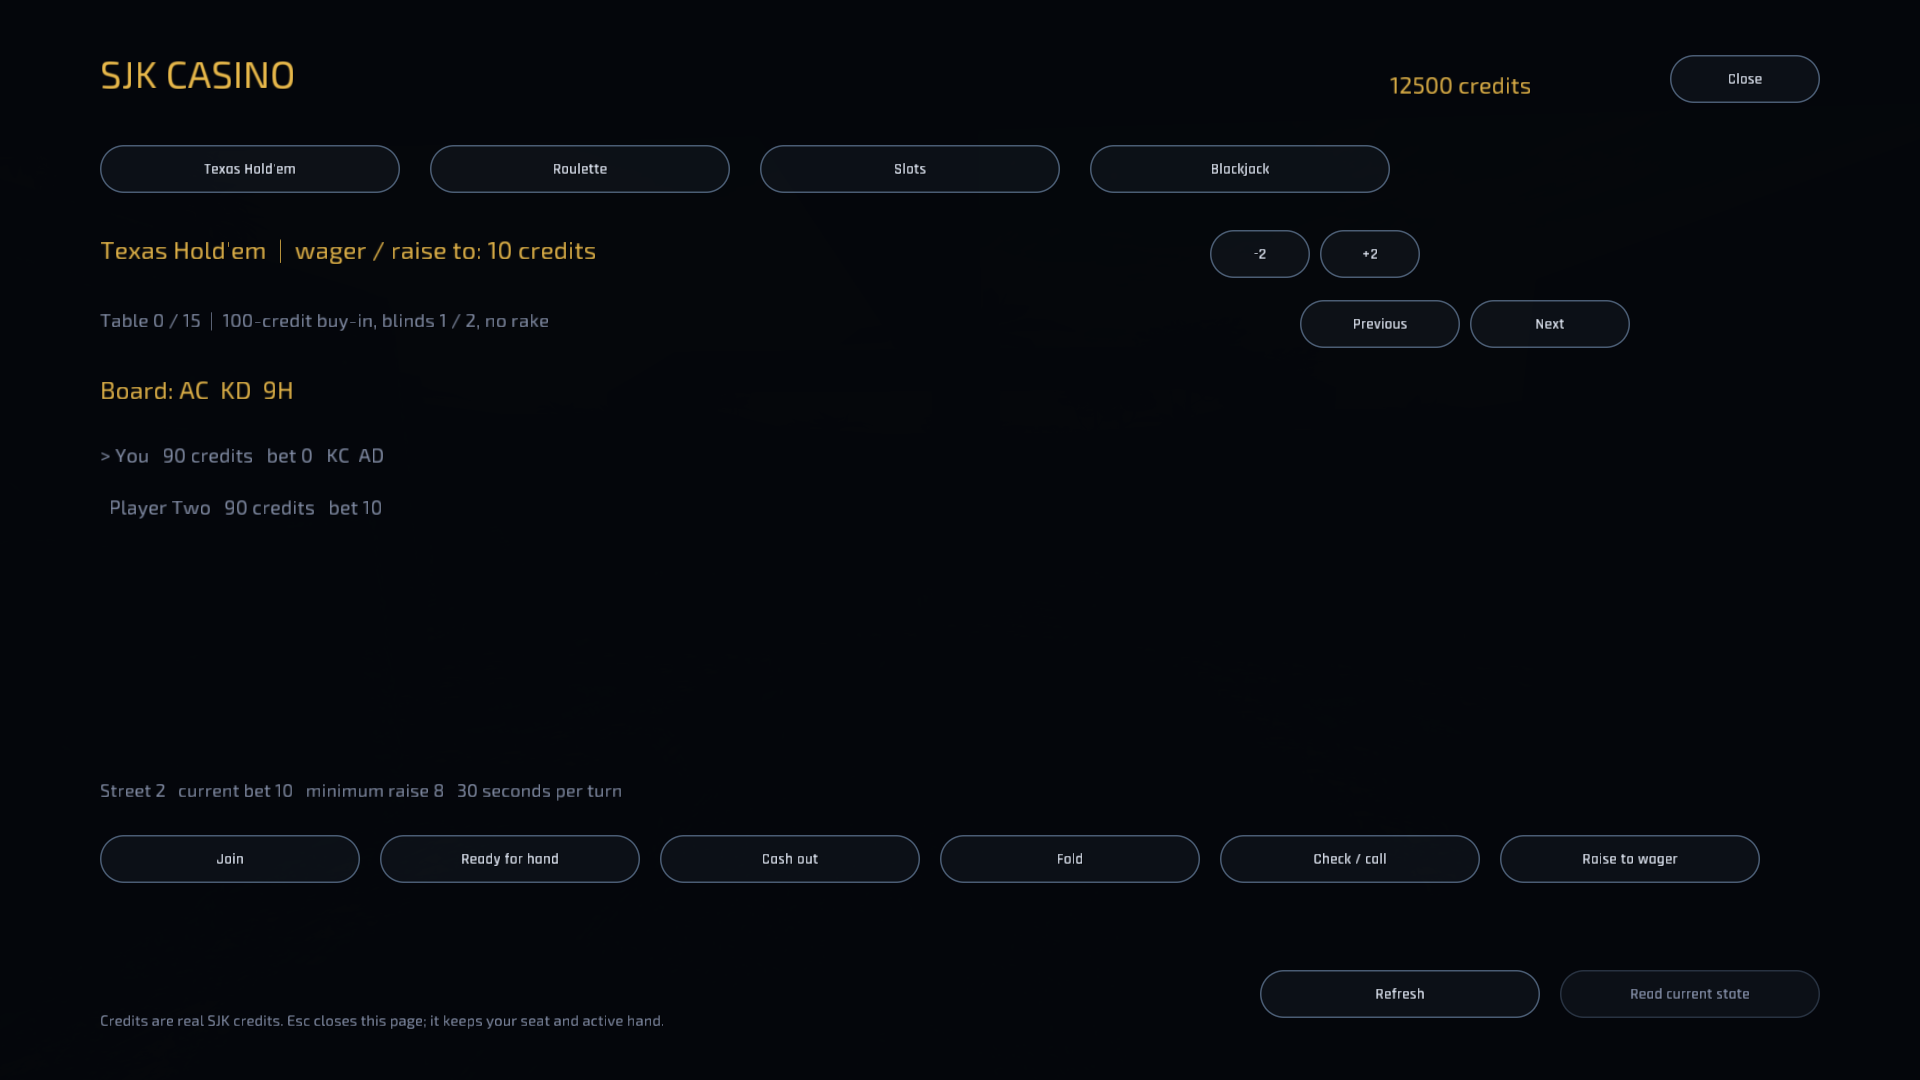
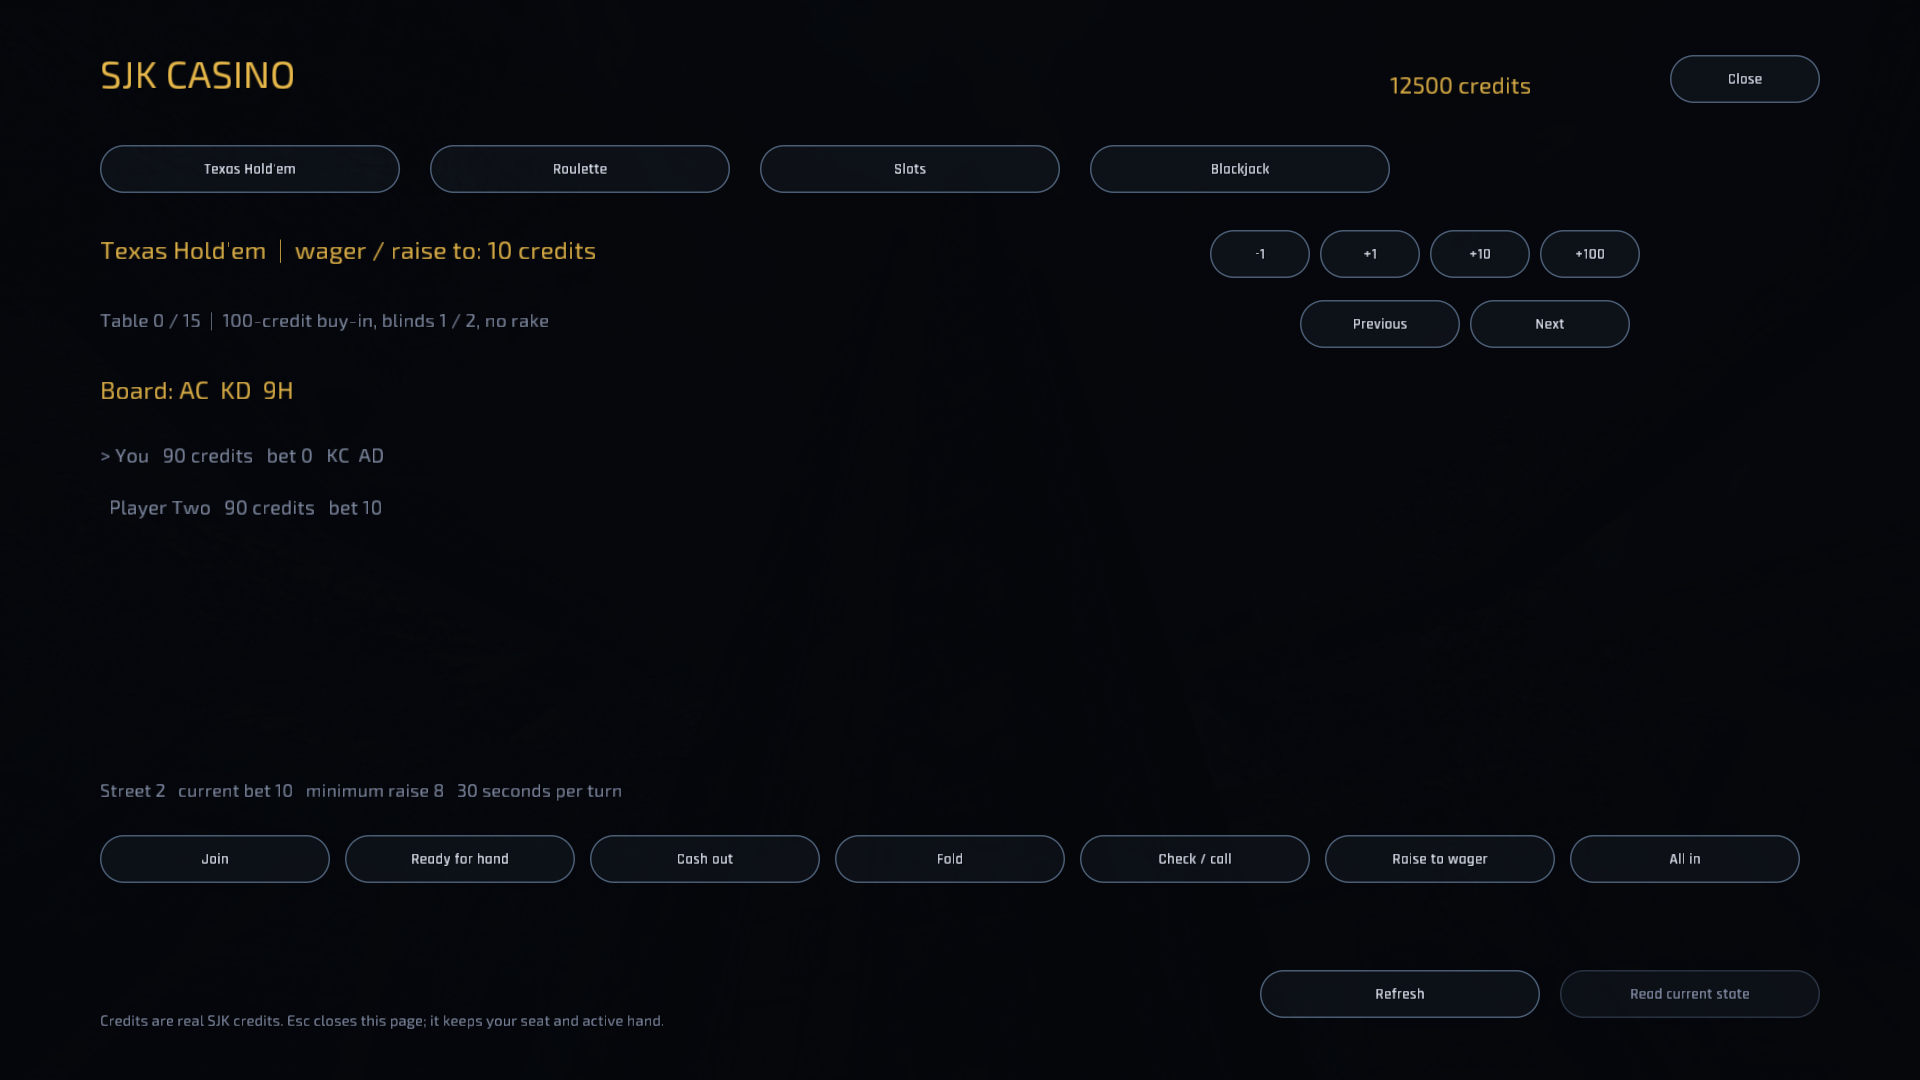
Allow whole-credit wagers and poker all-ins

diff --git a/crates/sjk-viewer/src/console_casino.rs b/crates/sjk-viewer/src/console_casino.rs
@@ -123,8 +123,29 @@ impl Casino {
         match token {
             0 => self.open = false,
             1..=4 => self.game = usize::from(token - 1),
-            5 => self.bet = (self.bet - 2).max(2),
-            6 => self.bet = (self.bet + 2).min(if self.game == 0 { 100_000 } else { 500 }),
+            5 => {
+                self.bet = (self.bet - if self.game == 3 { 2 } else { 1 }).max(if self.game == 3 {
+                    2
+                } else {
+                    1
+                })
+            }
+            6 | 22 | 23 => {
+                self.bet = self
+                    .bet
+                    .saturating_add(match token {
+                        22 => 10,
+                        23 => 100,
+                        _ => {
+                            if self.game == 3 {
+                                2
+                            } else {
+                                1
+                            }
+                        }
+                    })
+                    .min(if self.game == 0 { 100_000 } else { 500 })
+            }
             7 => self.table = (self.table + 15) % 16,
             8 => self.table = (self.table + 1) % 16,
             9 => {
@@ -152,6 +173,22 @@ impl Casino {
                     self.request("read");
                 }
             }
+            21 => {
+                let table = self.data["tables"].as_array().and_then(|t| {
+                    t.iter()
+                        .find(|t| t["id"].as_u64() == Some(u64::from(self.table)))
+                });
+                if let Some(table) = table
+                    && let Some(seat) = table["seats"]
+                        .as_array()
+                        .and_then(|seats| seats.iter().find(|s| s["person"] == self.data["person"]))
+                {
+                    self.bet =
+                        seat["round"].as_i64().unwrap_or(0) + seat["stack"].as_i64().unwrap_or(0);
+                    let call = self.bet <= table["current"].as_i64().unwrap_or(0);
+                    self.request(if call { "call" } else { "raise" });
+                }
+            }
             20 => {
                 // Explicit refresh after a definite rejection; no new wager.
                 self.pending = None;
@@ -162,6 +199,9 @@ impl Casino {
         }
         if self.game != 0 {
             self.bet = self.bet.min(500);
+        }
+        if self.game == 3 {
+            self.bet = ((self.bet + 1) / 2 * 2).min(500);
         }
         self.dirty = true;
     }
@@ -242,8 +282,26 @@ impl Casino {
             30.0,
             color::GOLD,
         );
-        self.button(&f, 5, "-2", 1210.0, 230.0, 100.0, true);
-        self.button(&f, 6, "+2", 1320.0, 230.0, 100.0, true);
+        self.button(
+            &f,
+            5,
+            if self.game == 3 { "-2" } else { "-1" },
+            1210.0,
+            230.0,
+            100.0,
+            true,
+        );
+        self.button(
+            &f,
+            6,
+            if self.game == 3 { "+2" } else { "+1" },
+            1320.0,
+            230.0,
+            100.0,
+            true,
+        );
+        self.button(&f, 22, "+10", 1430.0, 230.0, 100.0, true);
+        self.button(&f, 23, "+100", 1540.0, 230.0, 100.0, true);
         match self.game {
             0 => {
                 self.words(
@@ -337,6 +395,7 @@ impl Casino {
                     (14, "Fold"),
                     (15, "Check / call"),
                     (16, "Raise to wager"),
+                    (21, "All in"),
                 ]
                 .iter()
                 .enumerate()
@@ -345,9 +404,9 @@ impl Casino {
                         &f,
                         *token,
                         name,
-                        100.0 + i as f32 * 280.0,
+                        100.0 + i as f32 * 245.0,
                         835.0,
-                        260.0,
+                        230.0,
                         ready,
                     );
                 }
@@ -494,12 +553,12 @@ impl Casino {
         }
         if self.game == 1 || self.game == 2 {
             let result = &self.data["result"];
-            let words = if result["game"] == "roulette" {
+            let words = if self.game == 1 && result["game"] == "roulette" {
                 format!(
                     "Last spin: {}. Wager {} / returned {} credits",
                     result["number"], result["bet"], result["returned"]
                 )
-            } else if result["game"] == "slots" {
+            } else if self.game == 2 && result["game"] == "slots" {
                 format!(
                     "Reels: {}. Wager {} / returned {} credits",
                     result["reels"], result["bet"], result["returned"]
@@ -619,6 +678,9 @@ impl ViewerConsole {
         if let Some(token) = action.and_then(|a| self.casino.ui.action(a)) {
             self.casino.activate(token);
         }
+        if !self.casino.open {
+            self.set_open(false);
+        }
         self.casino.dirty = true;
         true
     }
@@ -666,6 +728,24 @@ mod tests {
                 assert!(console.covers_frame());
             }
         }
+    }
+    #[test]
+    fn whole_credit_wagers_and_blackjack_even_bets_are_selectable() {
+        let mut page = Casino::new();
+        page.bet = 2;
+        page.activate(5);
+        assert_eq!(page.bet, 1);
+        page.activate(6);
+        assert_eq!(page.bet, 2);
+        page.activate(22);
+        assert_eq!(page.bet, 12);
+        page.bet = 499;
+        page.activate(4);
+        assert_eq!(page.bet, 500);
+        page.activate(5);
+        assert_eq!(page.bet, 498);
+        page.activate(23);
+        assert_eq!(page.bet, 500);
     }
     #[test]
     fn closing_preserves_an_uncertain_wager_token() {

diff --git a/docs/casino.md b/docs/casino.md
@@ -27,14 +27,16 @@ hubs refuse the request without changing credits. No game-server messages are se
   Hit and stand are supported; split, double and insurance are not implemented.
 
 All returns include the stake. House-game wagers are 1..500 whole credits; the
-page starts at ten and adjusts in twos. Poker raises are bounded by the stack.
+page starts at ten, with whole-credit steps (twos for blackjack), +10 and +100
+shortcuts. Poker also has an All in button; raises are bounded by the stack.
 These are initial rules and limits.
 
 ## Authority and recovery
 
 The hub shuffles, rolls, validates turns and owns escrow. It persists blackjack
 rounds, poker tables and the credit ledger in the same transaction. A client
-receives only its own hole cards during a hand and non-folded hands at showdown;
+receives only its own hole cards during a hand and non-folded hands at a contested
+showdown; winning by folds does not expose the winner's cards;
 the dealer's hole card stays hidden until blackjack ends. A signed mutation has
 a random 128-bit request token, a player revision and, for poker, a table revision.
 Retries reuse the token and cannot charge or pay again. A changed table requires

diff --git a/docs/status.md b/docs/status.md
@@ -10,11 +10,12 @@ turns and between-hand cash-outs. Roulette, slots and blackjack use the explicit
 
 Verified on Windows/MSVC: workspace fmt check, locked build, tests and all-targets
 clippy; the page's controls and canvas budgets at 1080p, 4:3 and 4K. The hub's fmt,
-locked build/tests/clippy pass (545 library, 178 API, 19 CLI, 3 donation and 41 panel
+locked build/tests/clippy pass (547 library, 178 API, 19 CLI, 3 donation and 41 panel
 tests). Casino cases pin every five-card hand category over all 2,598,960 hands,
 seven-card selection, blackjack settlement, roulette zero, exact slot returns,
 side pots, full/cumulative short raises, credit conservation, hidden cards,
-signed HTTP retries, stale requests, escrow cash-outs and persisted receipts.
+signed HTTP retries, stale requests, escrow cash-outs, bounded persisted receipts
+and profile-merge replay safety. Uncontested winners keep their cards private.
 Offline GPU images use synthetic balances/hands, with identity disabled.
 
 Unverified: native clients playing together against a running local hub,
